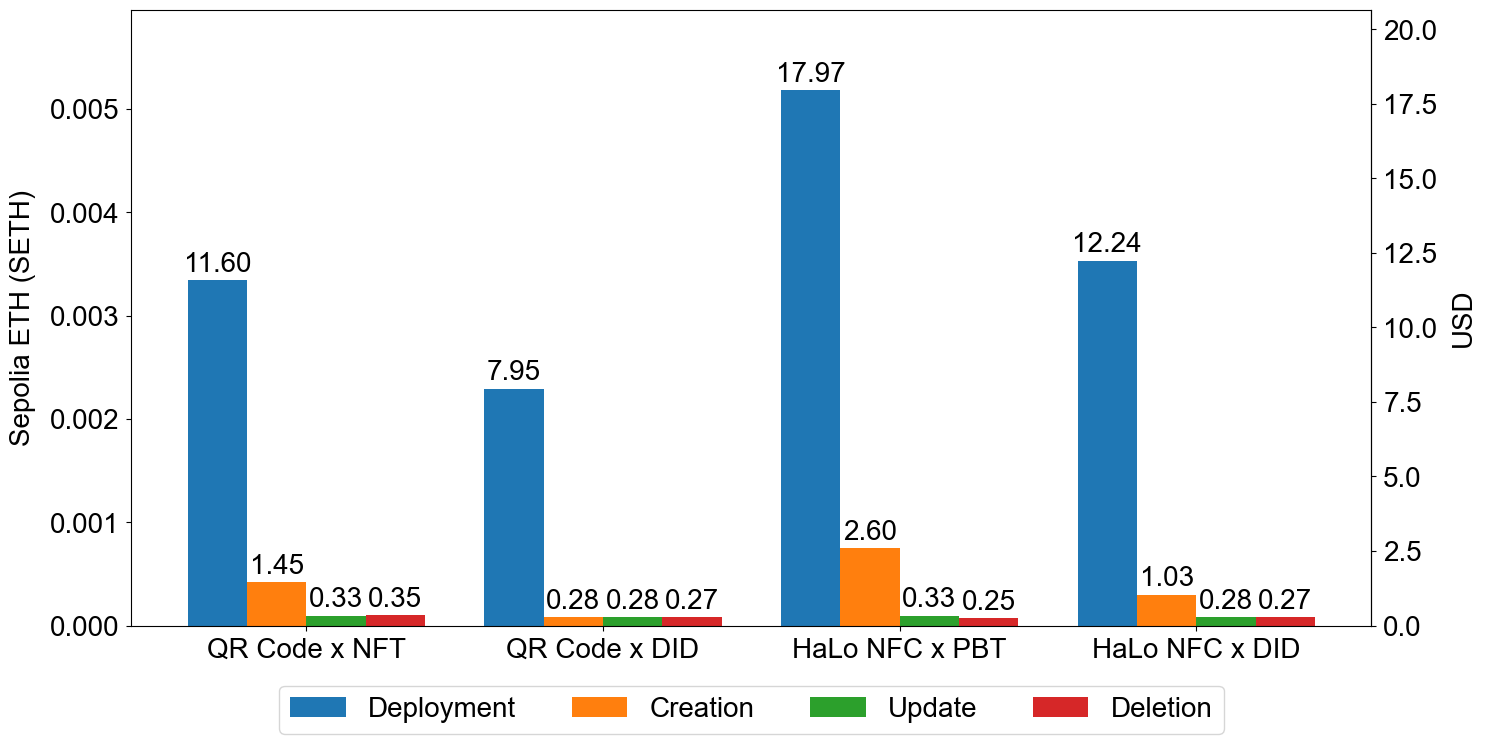
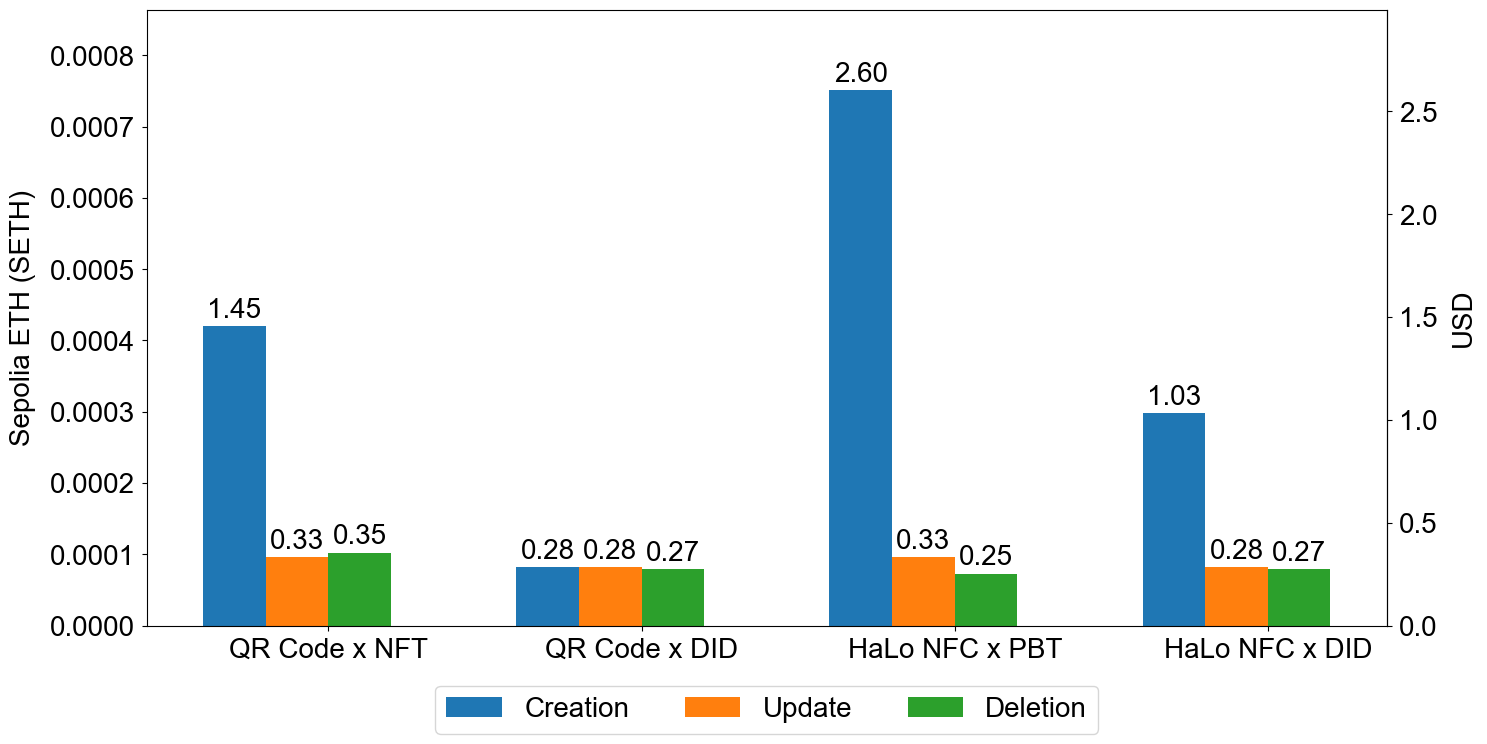
heatmap and overview plots improved

diff --git a/evaluation/utils/summary.py b/evaluation/utils/summary.py
@@ -1,71 +1,11 @@
-import os
-
-import matplotlib.pyplot as plt
 import numpy as np
-import seaborn as sns
-from matplotlib.colors import LinearSegmentedColormap
-from utils.helpers import OUTPUT_PATH, PERFORMANCE_LABEL_SIZE, Y_PAD
-
-DELIMITER = "*"
+from utils.helpers import DELIMITER, plot_heatmap
 
 x_labels = [
     "QR Code x NFT",
     "QR Code x DID",
     "HaLo NFC x PBT",
     "HaLo NFC x DID",
-]
-
-y_labels = [
-    "Performance: Deployment",
-    "Performance: Creation",
-    "Performance: Reading",
-    "Performance: Updating",
-    "Performance: Deleting",
-    "",  # Spacer
-    "Costs: Deployment",
-    "Costs: Creation",
-    "Costs: Updating",
-    "Costs: Deleting",
-    "",  # Spacer
-    "Scalability",
-    "",  # Spacer
-    "Interoperability",
-    "",  # Spacer
-    "Security",
-]
-
-data = [
-    ["16.39s", "16.25s", "32.02s", "32.47s"],
-    ["14.55s", "14.62s", "30.13s", "29.10s"],
-    ["0.54s", "0.86s", "0.75s", "1.00s"],
-    ["14.18s", "13.15s", "13.67s", "13.15s"],
-    ["13.55s", "17.45s", "13.20s", "17.45s"],
-    ["", "", "", ""],  # Spacer
-    ["11.60 USD", "7.95 USD", "17.97 USD", "12.24 USD"],
-    ["1.45 USD", "0.28 USD", "2.60 USD", "1.03 USD"],
-    ["0.33 USD", "0.28 USD", "0.33 USD", "0.28 USD"],
-    ["0.35 USD", "0.27 USD", "0.25 USD", "0.27 USD"],
-    ["", "", "", ""],  # Spacer
-    [
-        f"0{DELIMITER}Hardware\nIndependent",
-        f"0{DELIMITER}Hardware\nIndependent",
-        f"1{DELIMITER}Hardware\nDependent",
-        f"1{DELIMITER}Hardware\nDependent",
-    ],
-    ["", "", "", ""],  # Spacer
-    [
-        f"0{DELIMITER}Easier\nMetadata Exchange",
-        f"0{DELIMITER}Easier\nMetadata Exchange",
-        f"1{DELIMITER}Harder\nMetadata Exchange",
-        f"1{DELIMITER}Harder\nMetadata Exchange",
-    ],
-    ["", "", "", ""],  # Spacer
-    [
-        f"1{DELIMITER}Least\nTamper-Proof",
-        f"1{DELIMITER}Least\nTamper-Proof",
-        f"0{DELIMITER}Most\nTamper-Proof",
-        f"0.5{DELIMITER}Moderately\nTamper-Proof",
-    ],
 ]
 
 
@@ -82,66 +22,125 @@ def convert_to_numeric(item):
         return float(item)
 
 
-numeric_data = [[convert_to_numeric(item) * -1 for item in row] for row in data]
-numeric_data = np.array(numeric_data)
+def plot_performance_summary():
+    y_labels = [
+        "Infrastructure Deployment",
+        "",  # Spacer
+        "",  # Spacer
+        "Passport Creation",
+        "",  # Spacer
+        "Passport Reading",
+        "",  # Spacer
+        "Passport Update",
+        "",  # Spacer
+        "Passport Deletion",
+    ]
+
+    data = [
+        ["16.39s", "16.25s", "32.02s", "32.47s"],
+        ["", "", "", ""],  # Spacer
+        ["", "", "", ""],  # Spacer
+        ["14.55s", "14.62s", "30.13s", "29.10s"],
+        ["", "", "", ""],  # Spacer
+        ["0.54s", "0.86s", "0.75s", "1.00s"],
+        ["", "", "", ""],  # Spacer
+        ["14.18s", "13.15s", "13.67s", "13.15s"],
+        ["", "", "", ""],  # Spacer
+        ["13.55s", "17.45s", "13.20s", "17.45s"],
+    ]
+
+    numeric_data = [[convert_to_numeric(item) * -1 for item in row] for row in data]
+    numeric_data = np.array(numeric_data)
+
+    plot_heatmap(
+        data,
+        numeric_data,
+        x_labels,
+        y_labels,
+        "summary_performance.png",
+    )
+
+
+def plot_costs_summary():
+    y_labels = [
+        "Infrastructure Deployment",
+        "",  # Spacer
+        "",  # Spacer
+        "Passport Creation",
+        "",  # Spacer
+        "Passport Update",
+        "",  # Spacer
+        "Passport Deletion",
+    ]
+
+    data = [
+        ["11.60 USD", "7.95 USD", "17.97 USD", "12.24 USD"],
+        ["", "", "", ""],  # Spacer
+        ["", "", "", ""],  # Spacer
+        ["1.45 USD", "0.28 USD", "2.60 USD", "1.03 USD"],
+        ["", "", "", ""],  # Spacer
+        ["0.33 USD", "0.28 USD", "0.33 USD", "0.28 USD"],
+        ["", "", "", ""],  # Spacer
+        ["0.35 USD", "0.27 USD", "0.25 USD", "0.27 USD"],
+    ]
+
+    numeric_data = [[convert_to_numeric(item) * -1 for item in row] for row in data]
+    numeric_data = np.array(numeric_data)
+
+    plot_heatmap(
+        data,
+        numeric_data,
+        x_labels,
+        y_labels,
+        "summary_costs.png",
+    )
+
+
+def plot_theoretical_criteria_summary():
+    y_labels = [
+        "Scalability",
+        "",  # Spacer
+        "Interoperability",
+        "",  # Spacer
+        "Security",
+    ]
+
+    data = [
+        [
+            f"0{DELIMITER}Hardware\nIndependent",
+            f"0{DELIMITER}Hardware\nIndependent",
+            f"1{DELIMITER}Hardware\nDependent",
+            f"1{DELIMITER}Hardware\nDependent",
+        ],
+        ["", "", "", ""],  # Spacer
+        [
+            f"0{DELIMITER}Easier\nMetadata Exchange",
+            f"0{DELIMITER}Easier\nMetadata Exchange",
+            f"1{DELIMITER}Harder\nMetadata Exchange",
+            f"1{DELIMITER}Harder\nMetadata Exchange",
+        ],
+        ["", "", "", ""],  # Spacer
+        [
+            f"1{DELIMITER}Least\nTamper-Proof",
+            f"1{DELIMITER}Least\nTamper-Proof",
+            f"0{DELIMITER}Most\nTamper-Proof",
+            f"0.5{DELIMITER}Moderately\nTamper-Proof",
+        ],
+    ]
+
+    numeric_data = [[convert_to_numeric(item) * -1 for item in row] for row in data]
+    numeric_data = np.array(numeric_data)
+
+    plot_heatmap(
+        data,
+        numeric_data,
+        x_labels,
+        y_labels,
+        "summary_theoretical_criteria.png",
+    )
 
 
 def plot_summary():
-    normalized_data = np.zeros_like(numeric_data, dtype=float)
-    for i in range(numeric_data.shape[0]):
-        min_val = np.nanmin(numeric_data[i])
-        max_val = np.nanmax(numeric_data[i])
-        if min_val != max_val:
-            normalized_data[i] = (numeric_data[i] - min_val) / (max_val - min_val)
-        else:
-            normalized_data[i] = 0.5
-        # Set NaN values to neutral (0.5) for the blank rows
-        normalized_data[i] = np.where(
-            np.isnan(numeric_data[i]), 0.5, normalized_data[i]
-        )
-
-    mask = np.isnan(numeric_data)
-
-    cmap = LinearSegmentedColormap.from_list(
-        "relative_coloring", ["red", "yellow", "green"]
-    )
-
-    plt.figure(figsize=(16, 16))
-    ax = sns.heatmap(
-        normalized_data,
-        xticklabels=x_labels,
-        yticklabels=y_labels,
-        cmap=cmap,
-        cbar=True,
-        annot=[
-            [cell.split(DELIMITER)[1] if DELIMITER in cell else cell for cell in row]
-            for row in data
-        ],
-        fmt="",
-        annot_kws={"size": PERFORMANCE_LABEL_SIZE},
-        mask=mask,
-        cbar_kws={"shrink": 0.5},
-    )
-
-    ax.tick_params(left=False, bottom=False)
-
-    cbar = ax.collections[0].colorbar
-    cbar.set_ticks([0, 0.5, 1])
-    cbar.set_ticklabels(
-        ["Unfavorable\n(row-wise)", "Neutral\n(row-wise)", "Favorable\n(row-wise)"],
-        fontsize=PERFORMANCE_LABEL_SIZE,
-    )
-
-    plt.yticks(rotation=0)
-
-    plt.tick_params(
-        axis="both",
-        labelsize=PERFORMANCE_LABEL_SIZE,
-        pad=Y_PAD,
-    )
-
-    plt.savefig(
-        os.path.join(OUTPUT_PATH, "evaluation_summary.png"),
-        bbox_inches="tight",
-    )
-    plt.close()
+    plot_performance_summary()
+    plot_costs_summary()
+    plot_theoretical_criteria_summary()

diff --git a/evaluation/utils/helpers.py b/evaluation/utils/helpers.py
@@ -1,5 +1,10 @@
 import os
 
+import matplotlib.pyplot as plt
+import numpy as np
+import seaborn as sns
+from matplotlib.colors import LinearSegmentedColormap
+
 OUTPUT_PATH = "plots"
 os.makedirs(OUTPUT_PATH, exist_ok=True)
 
@@ -9,6 +14,8 @@ PERFORMANCE_LABEL_SIZE = 18
 PERFORMANCE_TITLE_SIZE = 20
 X_PAD = 10
 Y_PAD = 5
+
+DELIMITER = "*"
 
 SHOW_TITLE = False
 
@@ -27,3 +34,64 @@ def usd_to_eth(y):
 
 def wei_to_eth(y):
     return y / ETH_CONVERSION
+
+
+def plot_heatmap(data, numeric_data, x_labels, y_labels, output_filename):
+    normalized_data = np.zeros_like(numeric_data, dtype=float)
+    for i in range(numeric_data.shape[0]):
+        min_val = np.nanmin(numeric_data[i])
+        max_val = np.nanmax(numeric_data[i])
+        if min_val != max_val:
+            normalized_data[i] = (numeric_data[i] - min_val) / (max_val - min_val)
+        else:
+            normalized_data[i] = 0.5
+        # Set NaN values to neutral (0.5) for the blank rows
+        normalized_data[i] = np.where(
+            np.isnan(numeric_data[i]), 0.5, normalized_data[i]
+        )
+
+    mask = np.isnan(numeric_data)
+
+    cmap = LinearSegmentedColormap.from_list(
+        "relative_coloring", ["red", "yellow", "green"]
+    )
+
+    plt.figure(figsize=(16, len(y_labels)))
+    ax = sns.heatmap(
+        normalized_data,
+        xticklabels=x_labels,
+        yticklabels=y_labels,
+        cmap=cmap,
+        cbar=True,
+        annot=[
+            [cell.split(DELIMITER)[1] if DELIMITER in cell else cell for cell in row]
+            for row in data
+        ],
+        fmt="",
+        annot_kws={"size": PERFORMANCE_LABEL_SIZE},
+        mask=mask,
+        cbar_kws={"shrink": 0.5},
+    )
+
+    ax.tick_params(left=False, bottom=False)
+
+    cbar = ax.collections[0].colorbar
+    cbar.set_ticks([0, 0.5, 1])
+    cbar.set_ticklabels(
+        ["Unfavorable\n(row-wise)", "Neutral\n(row-wise)", "Favorable\n(row-wise)"],
+        fontsize=PERFORMANCE_LABEL_SIZE,
+    )
+
+    plt.yticks(rotation=0)
+
+    plt.tick_params(
+        axis="both",
+        labelsize=PERFORMANCE_LABEL_SIZE,
+        pad=Y_PAD,
+    )
+
+    plt.savefig(
+        os.path.join(OUTPUT_PATH, output_filename),
+        bbox_inches="tight",
+    )
+    plt.close()

diff --git a/evaluation/utils/performance.py b/evaluation/utils/performance.py
@@ -251,7 +251,7 @@ def plot_passport_types_operation_performance(
 def plot_passport_types_performance(performance_data):
     labels = performance_data[0]["data"].keys()
 
-    to_exclude = []
+    to_exclude = ["Deployment"]
     operations = [
         entry["operation"]
         for entry in performance_data
@@ -275,10 +275,10 @@ def plot_passport_types_performance(performance_data):
         bars = ax.bar(x + i * width, y, width, label=operation)
 
         adjustment = 0
-        if i == 1:
-            adjustment = 3.5
+        if i == 2:
+            adjustment = -2
         if i == 3:
-            adjustment = -4
+            adjustment = 2
 
         for bar in bars:
             height = bar.get_height()

diff --git a/evaluation/utils/gas_costs.py b/evaluation/utils/gas_costs.py
@@ -262,7 +262,7 @@ def plot_passport_types_operation_gas_costs(
 def plot_passport_types_gas_costs(gas_costs_data):
     labels = gas_costs_data[0]["data"].keys()
 
-    to_exclude = ["Reading"]
+    to_exclude = ["Deployment", "Reading"]
     operations = [
         entry["operation"]
         for entry in gas_costs_data
